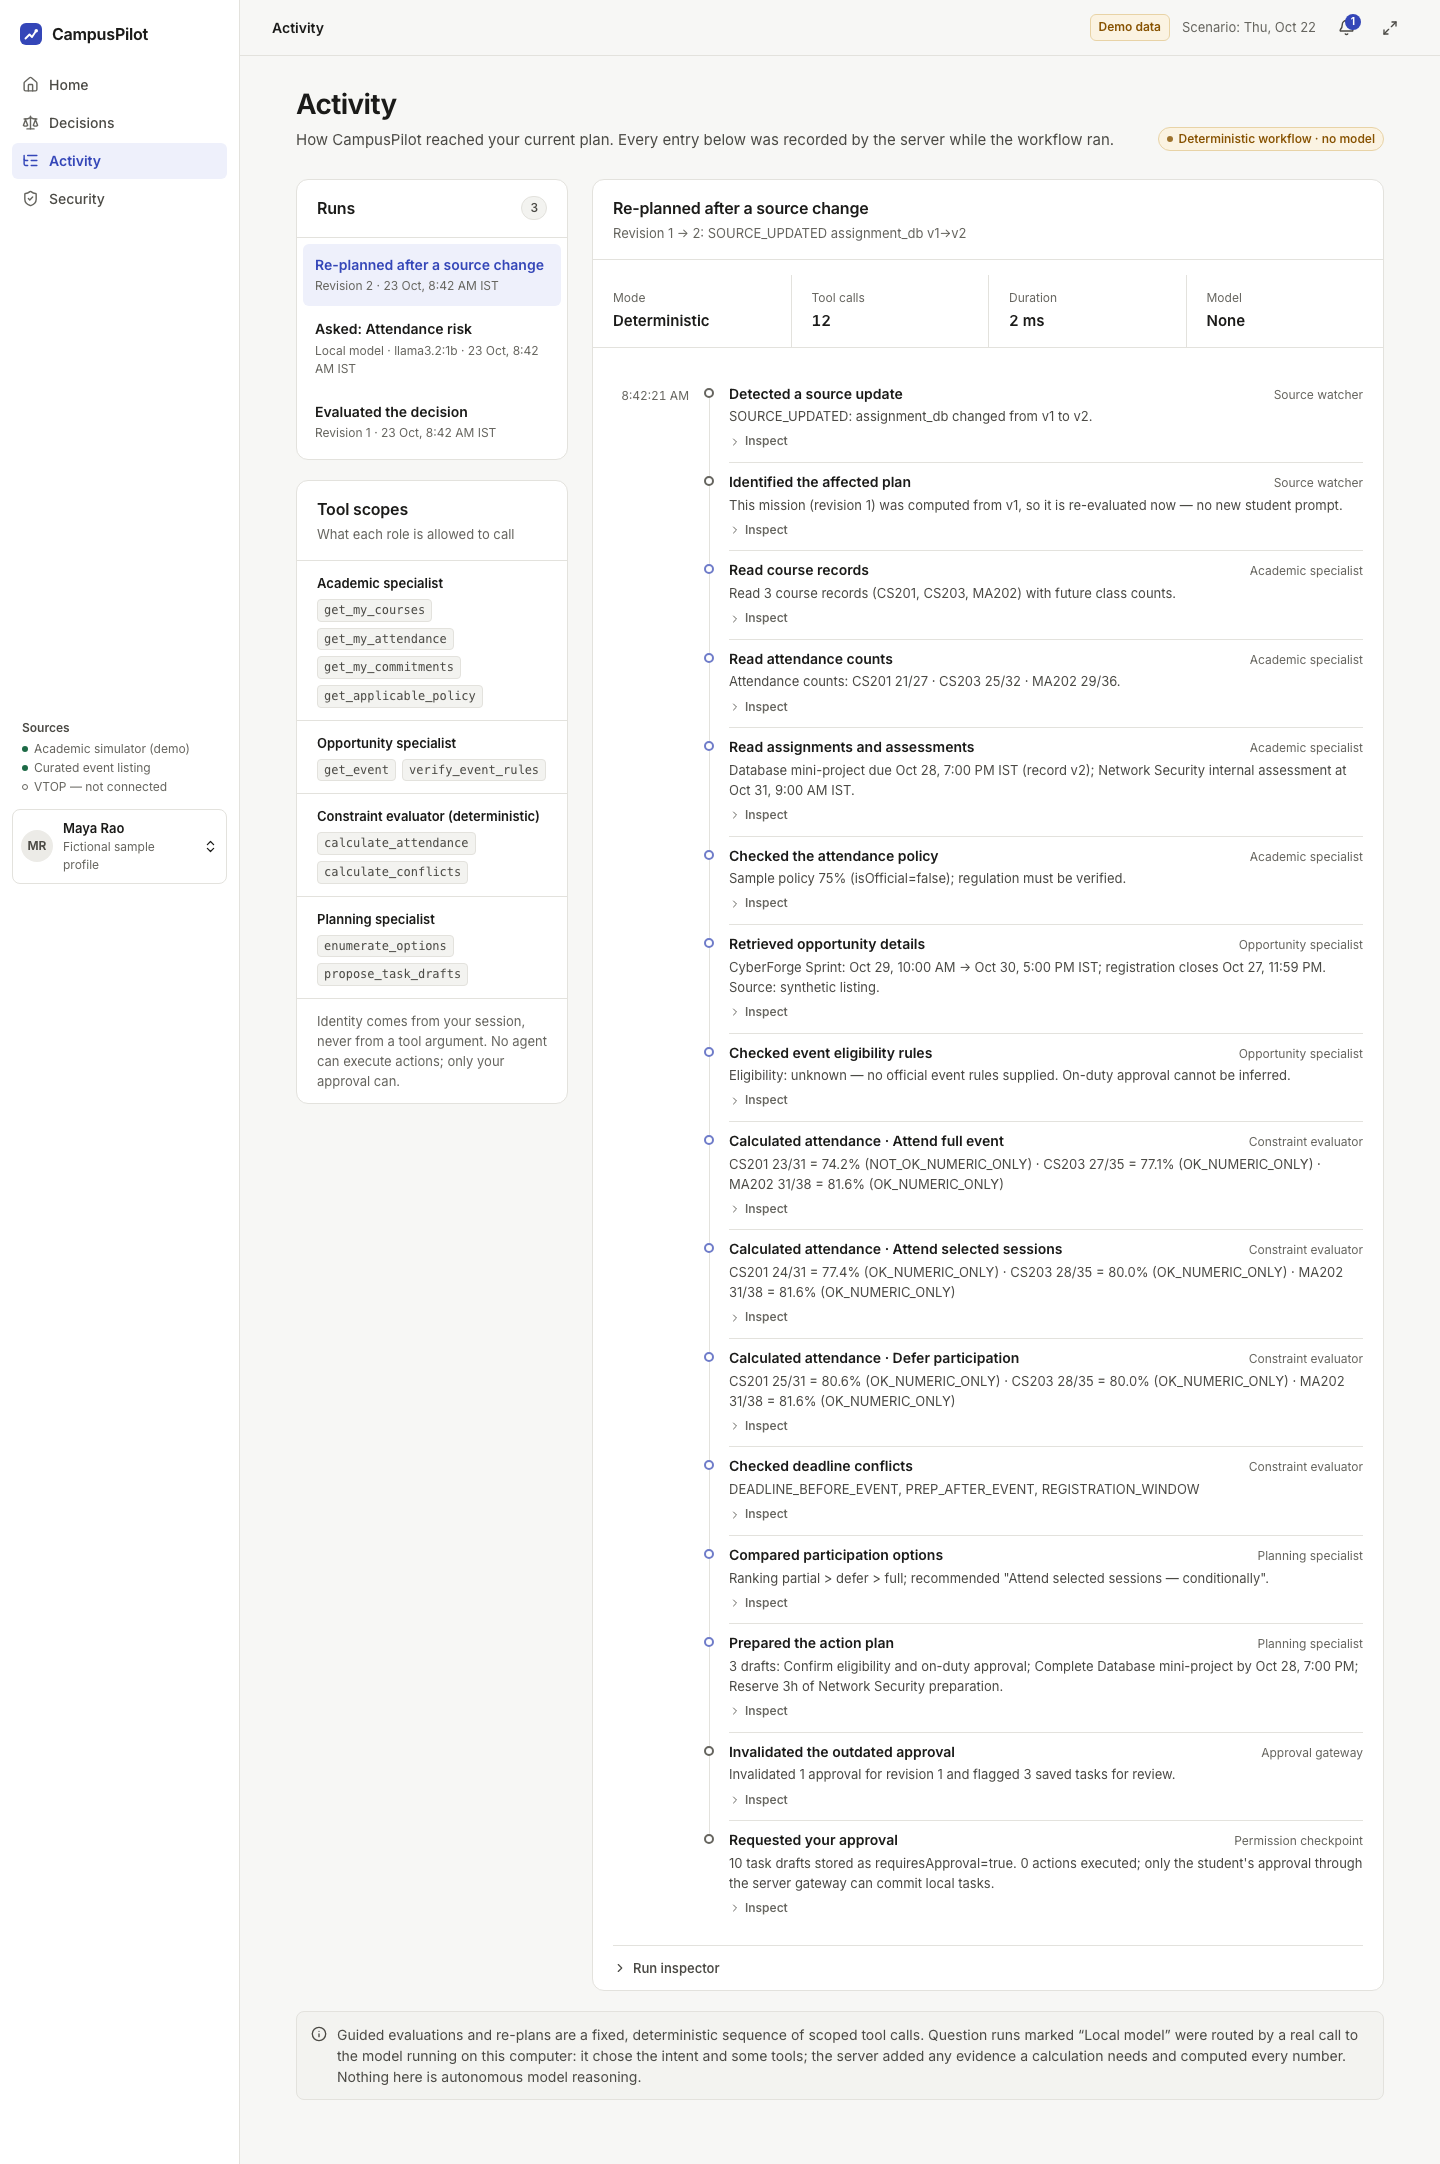
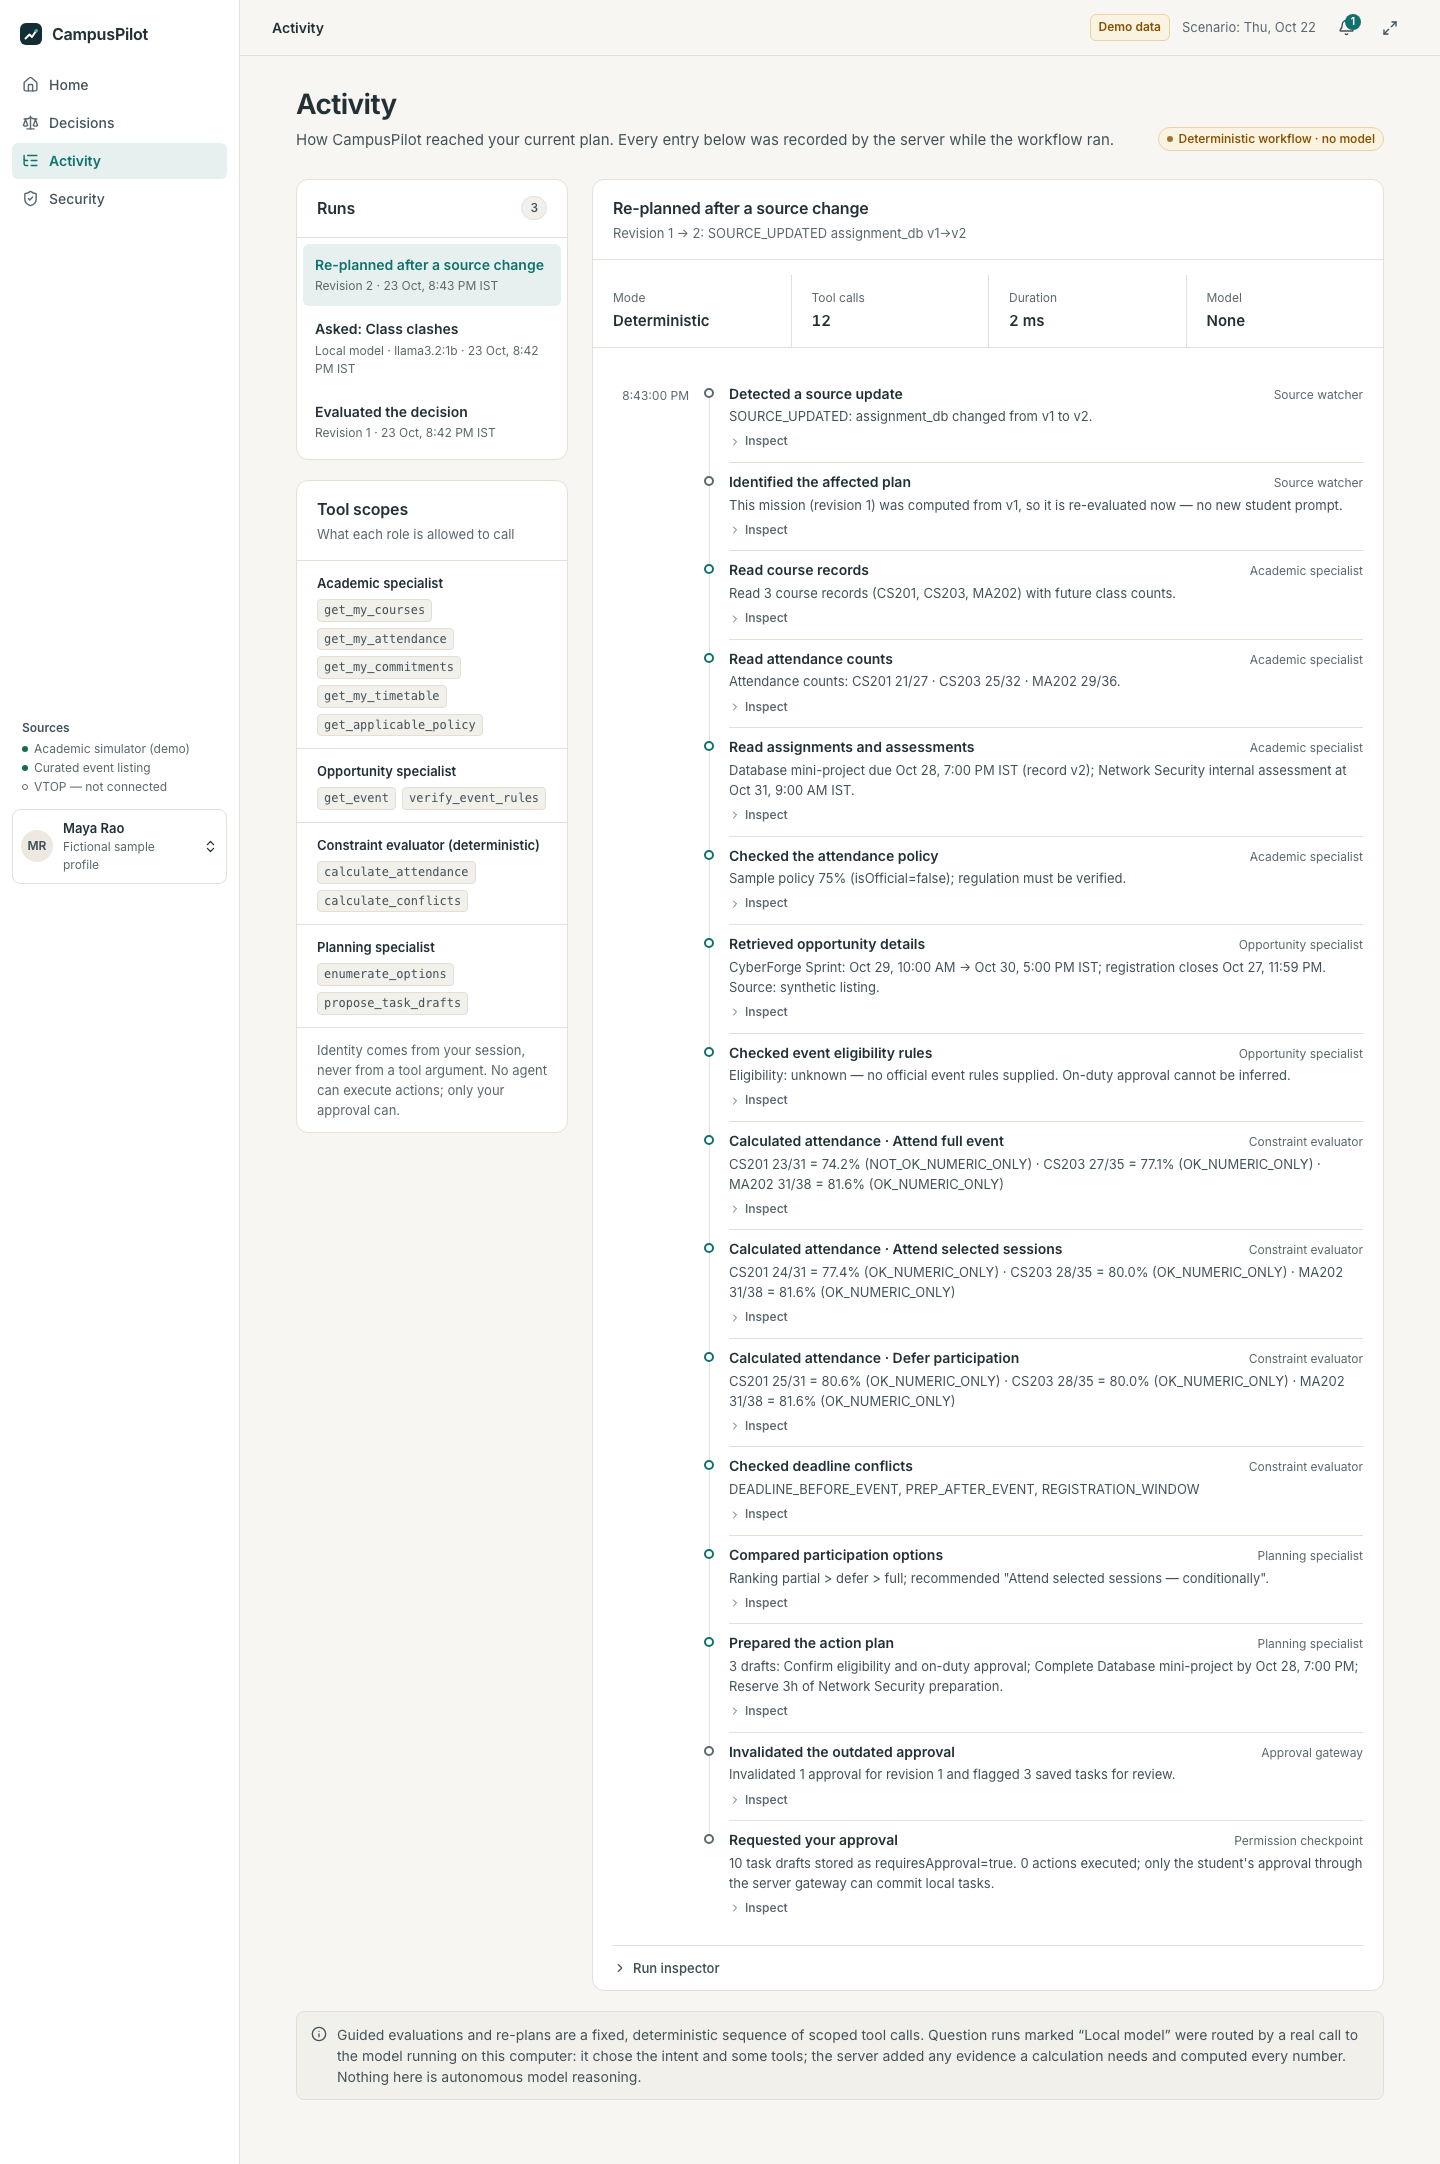
docs: README landing page and fresh screenshots of the final version
- README: summary, CI badge, hero screenshot, screen gallery, intro frames,
  PS2/Track 1 coverage at a glance and links to the Round 2 evidence.
- docs/screenshots/v2 re-captured with `npm run screenshots` (production
  build, real local model): class-clash answer, timetable, presentation
  mode and four frames of the 30-second intro added.

diff --git a/e2e/screens.capture.ts b/e2e/screens.capture.ts
@@ -33,10 +33,14 @@ for (const [w, h] of SIZES) {
     await expect(page.getByTestId("recommendation")).toBeVisible();
     await page.evaluate(() => window.scrollTo(0, 0));
     await shot("03-decisions-evaluated");
-    await page.getByTestId("ask-panel").getByRole("button", { name: "What is my biggest attendance risk?" }).click();
+    await page.getByTestId("ask-panel").getByRole("button", { name: "Which classes clash with the hackathon, and what should I do?" }).click();
     await expect(page.getByTestId("ask-answer")).toBeVisible({ timeout: 60_000 });
-    await page.getByTestId("ask-panel").scrollIntoViewIfNeeded();
+    await page.getByTestId("ask-inspector").locator("summary").click();
+    // Start at the answer headline (the sticky top bar is 3.5rem tall).
+    await page.getByTestId("ask-answer").evaluate((el) => window.scrollTo(0, el.getBoundingClientRect().top + window.scrollY - 72));
     await shot("03b-local-ai-answer", false);
+    await page.getByTestId("timetable").scrollIntoViewIfNeeded();
+    await shot("03c-timetable", false);
     await page.getByTestId("approve").click();
     await expect(page.getByTestId("approved-note")).toBeVisible();
     await page.getByTestId("source-change").click();
@@ -57,6 +61,21 @@ for (const [w, h] of SIZES) {
     await page.getByTestId("run-probe").click();
     await expect(page.getByTestId("probe-results")).toHaveAttribute("data-state", "done");
     await shot("08-security");
+    if (w === 1440) {
+      // Presentation mode (P): sidebar hidden, top-bar navigation.
+      await page.goto("/decisions");
+      await page.keyboard.press("p");
+      await expect(page.getByTestId("pitch-nav")).toBeVisible();
+      await shot("09-presentation-mode", false);
+      await page.keyboard.press("p");
+      // Frames from the 30-second intro (/overview?intro=1), timed from page load.
+      await page.goto("/overview?intro=1");
+      const t0 = Date.now();
+      for (const [at, name] of [[10.5, "10-intro-records"], [19.4, "11-intro-conflict"], [25.4, "12-intro-pipeline"], [29.0, "13-intro-brand"]] as const) {
+        await page.waitForTimeout(Math.max(0, at * 1000 - (Date.now() - t0)));
+        await page.screenshot({ path: `${dir}/${name}.png` });
+      }
+    }
     await page.close();
   });
 }

diff --git a/README.md b/README.md
@@ -1,28 +1,72 @@
 # CampusPilot
 
-**VIT ConvergeX 2026 · PS2 AI-Based Smart Campus Management · Track 1 (AI Agents)**
+**A local-AI decision agent for students: it connects attendance, timetable, deadlines and events
+before a student commits to an opportunity.**
 
-CampusPilot is a personal academic decision system for students. In this MVP a student considers
-attending a cybersecurity hackathon, and CampusPilot:
+VIT ConvergeX 2026 · AI Solution Sprint · **PS2 AI-Based Smart Campus Management** · **Track 1 (AI Agents)**
 
-1. lets the student **ask a question**, which a **local language model** interprets to decide
-   which of their records to investigate (CampusPilot Local AI),
-2. reads the (synthetic) records through permission-scoped tools,
-3. computes the consequences of three choices with a **deterministic engine**,
-4. recommends one **conditionally**, keeping what must still be verified visible,
-5. saves an action plan as local tasks only after the student approves it, and
-6. revises the plan by itself, invalidating the old approval, when a source record changes.
+[![CI](https://github.com/sgtsujith141-wq/campuspilot-convergex/actions/workflows/ci.yml/badge.svg?branch=redesign/campuspilot-v2)](https://github.com/sgtsujith141-wq/campuspilot-convergex/actions/workflows/ci.yml)
+![Next.js 16](https://img.shields.io/badge/Next.js-16-142d35)
+![TypeScript](https://img.shields.io/badge/TypeScript-strict-11716c)
+![Local AI](https://img.shields.io/badge/local%20AI-llama3.2%3A1b%20via%20Ollama-11716c)
+![Data](https://img.shields.io/badge/data-synthetic-b7791f)
 
-The differentiator: **evidence-backed decisions + proactive replanning + permission-enforced
-actions**, with a small local model that chooses *how to investigate* — never the numbers.
+![The local model routes a class-clash question; the engine computes the clashes per option](docs/screenshots/v2/1440x900/03b-local-ai-answer.png)
+
+In this MVP a student is considering a two-day cybersecurity hackathon. CampusPilot:
+
+1. lets the student **ask a question**. A **local language model** (`llama3.2:1b`, running on the
+   same computer) decides what the question is about and which of the student's records to check.
+2. reads the (synthetic) records through **permission-scoped, read-only tools**.
+3. computes the consequences of three choices with a **deterministic engine**: attendance
+   projections, class clashes, deadline conflicts and the registration window.
+4. recommends one option **conditionally**, keeping visible what must still be verified.
+5. saves the action plan as local tasks **only after the student approves** that exact plan revision.
+6. **replans by itself** when a source record changes, and invalidates the old approval.
+
+The model chooses *how to investigate*. It never produces the numbers.
 
 > **Honesty first.** The student (Maya Rao), "Test Student B", CyberForge Sprint, the academic
-> records and the 75% threshold are fictional. CampusPilot is **not** connected to VTOP or any
-> university system. The local model (`llama3.2:1b`, 1.2B parameters, via Ollama on the same
-> computer) only routes questions to read-only tools; every number comes from ordinary code.
+> records, the timetable and the 75% threshold are all fictional. CampusPilot is **not** connected to
+> VTOP or any university system. The model only routes questions to read-only tools; every number
+> comes from ordinary, tested code.
 
-**Round 2 (23 Oct 2026):** PS2 / Track 1 coverage, limits and test evidence are in
-[`docs/ROUND2_PS2_COMPLIANCE.md`](docs/ROUND2_PS2_COMPLIANCE.md) and [`docs/round2/`](docs/round2/README.md).
+## Screens
+
+| | |
+|---|---|
+| ![Home](docs/screenshots/v2/1440x900/01-home.png) **Home**: what needs attention, from synthetic records | ![Options](docs/screenshots/v2/1440x900/03-decisions-evaluated.png) **Decisions**: three options computed by the engine (74.2 / 77.4 / 80.6%) and a conditional recommendation |
+| ![Timetable](docs/screenshots/v2/1440x900/03c-timetable.png) **Timetable**: the class missed under "selected sessions", by real interval overlap | ![Replanning](docs/screenshots/v2/1440x900/04-decisions-replanned.png) **Replanning**: deadline moved → revision 2, work block moved, approval invalidated |
+| ![Activity](docs/screenshots/v2/1440x900/07a-activity-local-ai.png) **Activity**: the recorded `local_llm` run, with each tool marked "requested by the local model" | ![Security](docs/screenshots/v2/1440x900/08-security.png) **Security**: live access check; real 403s for another student's records |
+| ![Presentation mode](docs/screenshots/v2/1440x900/09-presentation-mode.png) **Presentation mode (P)**: the sidebar hides and a top-bar navigation appears | ![Mobile](docs/screenshots/v2/390x844/01-home.png) **Mobile** (390 px) |
+
+**Opening sequence** (`/overview?intro=1`, 30 s, replays on every load):
+
+| | | | |
+|---|---|---|---|
+| ![Records](docs/screenshots/v2/1440x900/10-intro-records.png) | ![Conflict](docs/screenshots/v2/1440x900/11-intro-conflict.png) | ![Pipeline](docs/screenshots/v2/1440x900/12-intro-pipeline.png) | ![Brand](docs/screenshots/v2/1440x900/13-intro-brand.png) |
+
+All screenshots come from `npm run screenshots` against a production build with the real local
+model. More sizes are in [`docs/screenshots/v2`](docs/screenshots/v2); v1 is in `docs/screenshots/v1`.
+
+## PS2 and Track 1 at a glance
+
+PS2 names "areas *such as* resource optimization, security, energy management and student services".
+We state our coverage of each area without claiming that every area is mandatory:
+
+| Area / capability | In this prototype |
+|---|---|
+| Student services | **Implemented** for one scenario (event participation), end to end |
+| Security | **Limited**: application and academic-data security (isolation, consent, audit), not physical campus security |
+| Resource optimization | **Limited**: one student's time and attendance, not rooms, labs or staff |
+| Energy management | **Not implemented** |
+| Reasoning · Planning · Tool usage · Task execution | Hybrid (the model routes, rules decide) · implemented · implemented · local tasks only |
+
+Details and evidence:
+
+- [`docs/ROUND2_PS2_COMPLIANCE.md`](docs/ROUND2_PS2_COMPLIANCE.md)
+- [`docs/round2/`](docs/round2/README.md): matrix, test results, live-model routing
+- [compliance report PDF](docs/report/CampusPilot_PS2_Implementation_Compliance_Report.pdf)
 
 ## Run it
 
@@ -58,7 +102,7 @@ prototype from the build kit.
 | **Synthetic demo data** | Student, second test profile, event, academic records, class timetable (Oct 26–30), 75% policy · the deadline change (controlled demo) · sign-in (sample login) |
 | **Not implemented** | VTOP / ERP integration · cloud AI models · model-written answers (off: unreliable at 1B) · on-duty approval or eligibility verification · institutional SSO · rate limiting · energy management · institution-wide operations (rooms, labs, staff) · physical campus security |
 
-## Screens (routes unchanged since v1)
+## Routes
 
 | Route | Label | What it shows |
 |---|---|---|
@@ -67,8 +111,8 @@ prototype from the build kit.
 | `/agents` | Activity | Recorded runs: question runs show the model, its decision and each tool call (requested by the model or the server); guided runs are labelled deterministic. |
 | `/trust` | Security | Permissions overview (incl. the local-AI boundary), live access check (real 403s), audit log, test evidence, what is real. |
 
-Screenshots: `docs/screenshots/v2/1440x900`, `docs/screenshots/v2/390x844` (v1 in
-`docs/screenshots/v1`). Visual review: `docs/VISUAL_REVIEW.md`.
+`/overview?intro=1` plays the presentation opening over Home. Press Esc to skip it.
+Visual review notes: `docs/VISUAL_REVIEW.md`.
 
 ## Architecture
 
@@ -109,7 +153,7 @@ Next.js route handlers ── student id only from the session
 |---|---|---|
 | Cross-student read/write | Owner filter everywhere; identity only from the session; uniform 403; audited | backend tests, real-HTTP e2e, live check in Security |
 | Model misuse / prompt injection | Model sees only the question; reply limited to intent + tool names; strict parse (extra fields rejected); read-only tool allowlist; server sets all arguments | `tests/ai.test.ts`, hostile questions in `ai:smoke` against the real model |
-| Stale or replayed approval | Revision + consent checked before any idempotent replay; superseded approvals never reinstated | regression tests (fail on the v1 ordering) |
+| Stale or replayed approval | Revision + consent checked before any idempotent replay; superseded approvals never reinstated | backend regression tests |
 | Infeasible approval | Options with a hard violation cannot be approved (422) | `tests/registration.test.ts` |
 | Oversized / cross-site input | 16 KB cap on the actual body stream (not just Content-Length), same-origin JSON, `Sec-Fetch-Site` check, ID format check | backend tests |
 | Runaway inference | Loopback-only runtime URL, timeouts, ≤3 model calls, one question at a time | `tests/ai.test.ts` |
@@ -129,9 +173,9 @@ AI_LIVE=1 npx playwright test e2e/ai-live.spec.ts   # REAL model through the bro
 npm run screenshots      # six viewport sizes; uses the real model if running
 ```
 
-Results observed on 23 Oct 2026 (presentation Mac): see the pull request and the final hand-off;
-the recorded unit report is in `reports/vitest.json`, the real-model smoke test in
-`reports/ai-smoke.json`.
+Results observed on 23 Oct 2026 on the presentation Mac, with pass, fail and skip counts and the live-model
+routing table, are in [`docs/round2/FINAL_TEST_RESULTS.md`](docs/round2/FINAL_TEST_RESULTS.md).
+The real-model smoke run is in `reports/ai-smoke.json`.
 
 ## Accessibility
 
@@ -139,6 +183,13 @@ Landmarks and a skip link; semantic tables; labelled inputs; `aria-pressed`/`ari
 accessible dialog (focus in, trapped, restored); status never conveyed by colour alone; 12 px
 minimum text; WCAG AA contrast (axe-core scans pass on every screen at 1440 and 390 px);
 `prefers-reduced-motion`; presentation mode scales all rem-based sizes.
+
+## Documentation
+
+- [`docs/AI_ARCHITECTURE.md`](docs/AI_ARCHITECTURE.md): how the local model is used and constrained
+- [`docs/ROUND2_PS2_COMPLIANCE.md`](docs/ROUND2_PS2_COMPLIANCE.md) and [`docs/round2/`](docs/round2/README.md): coverage, tests and evidence
+- [`docs/report/`](docs/report/): PS2 implementation and compliance report (PDF and Markdown)
+- [`PITCH_NOTES.md`](PITCH_NOTES.md): 3-minute demo script
 
 ## Limitations
 
